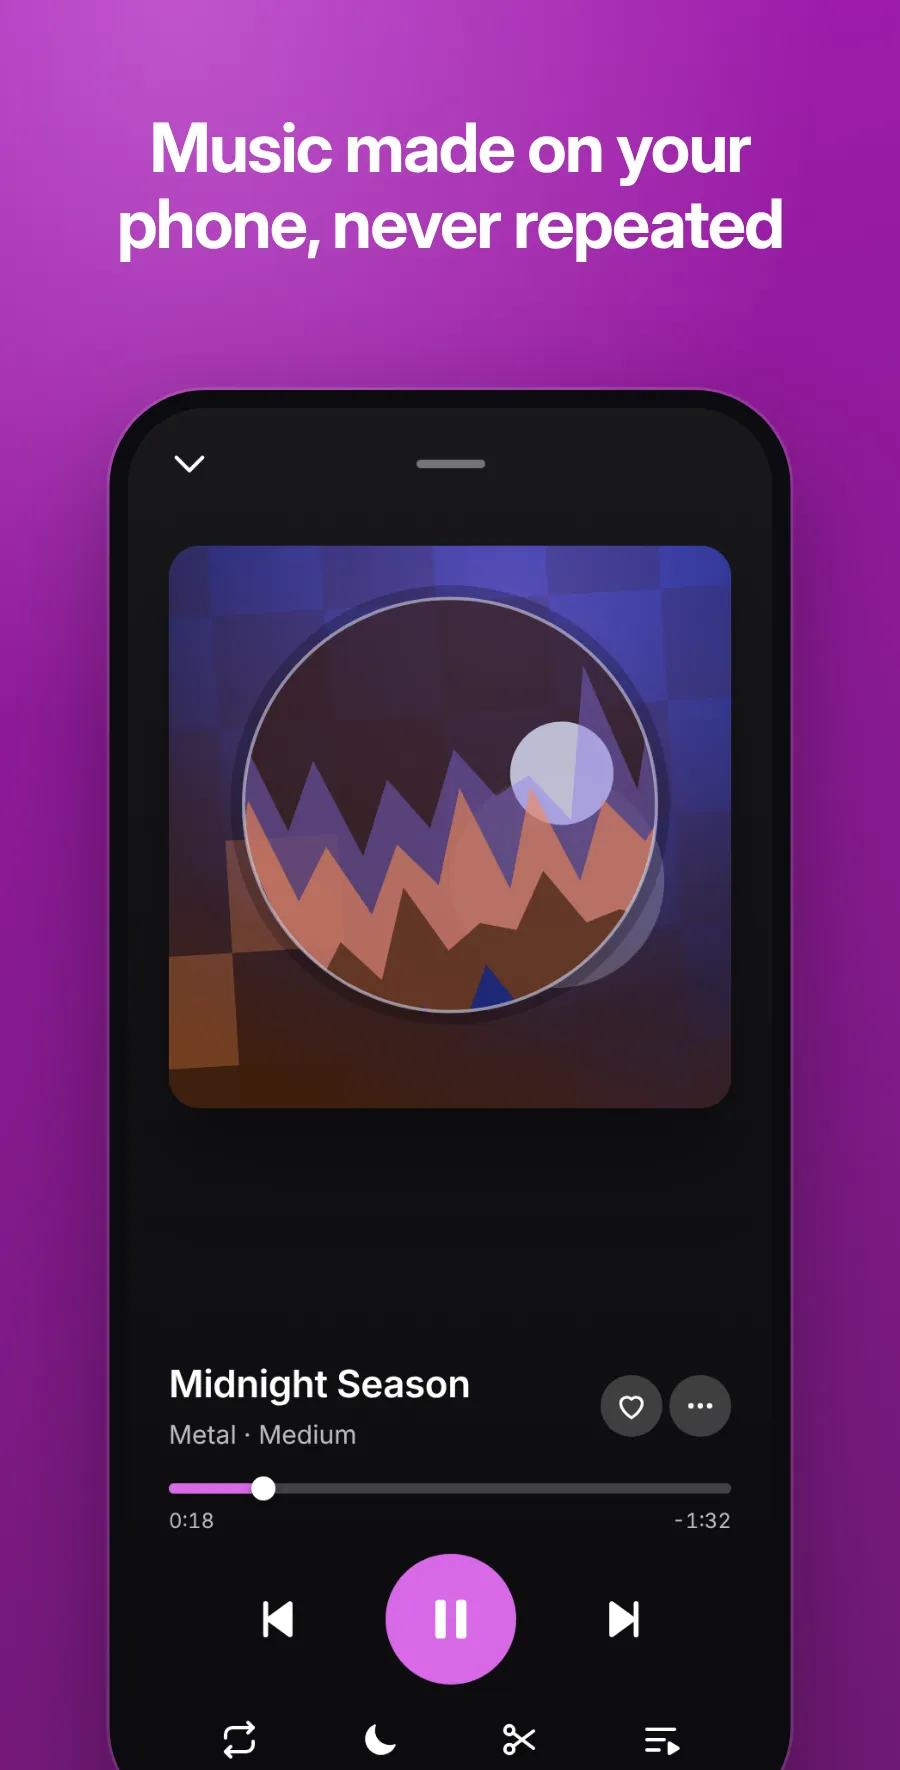
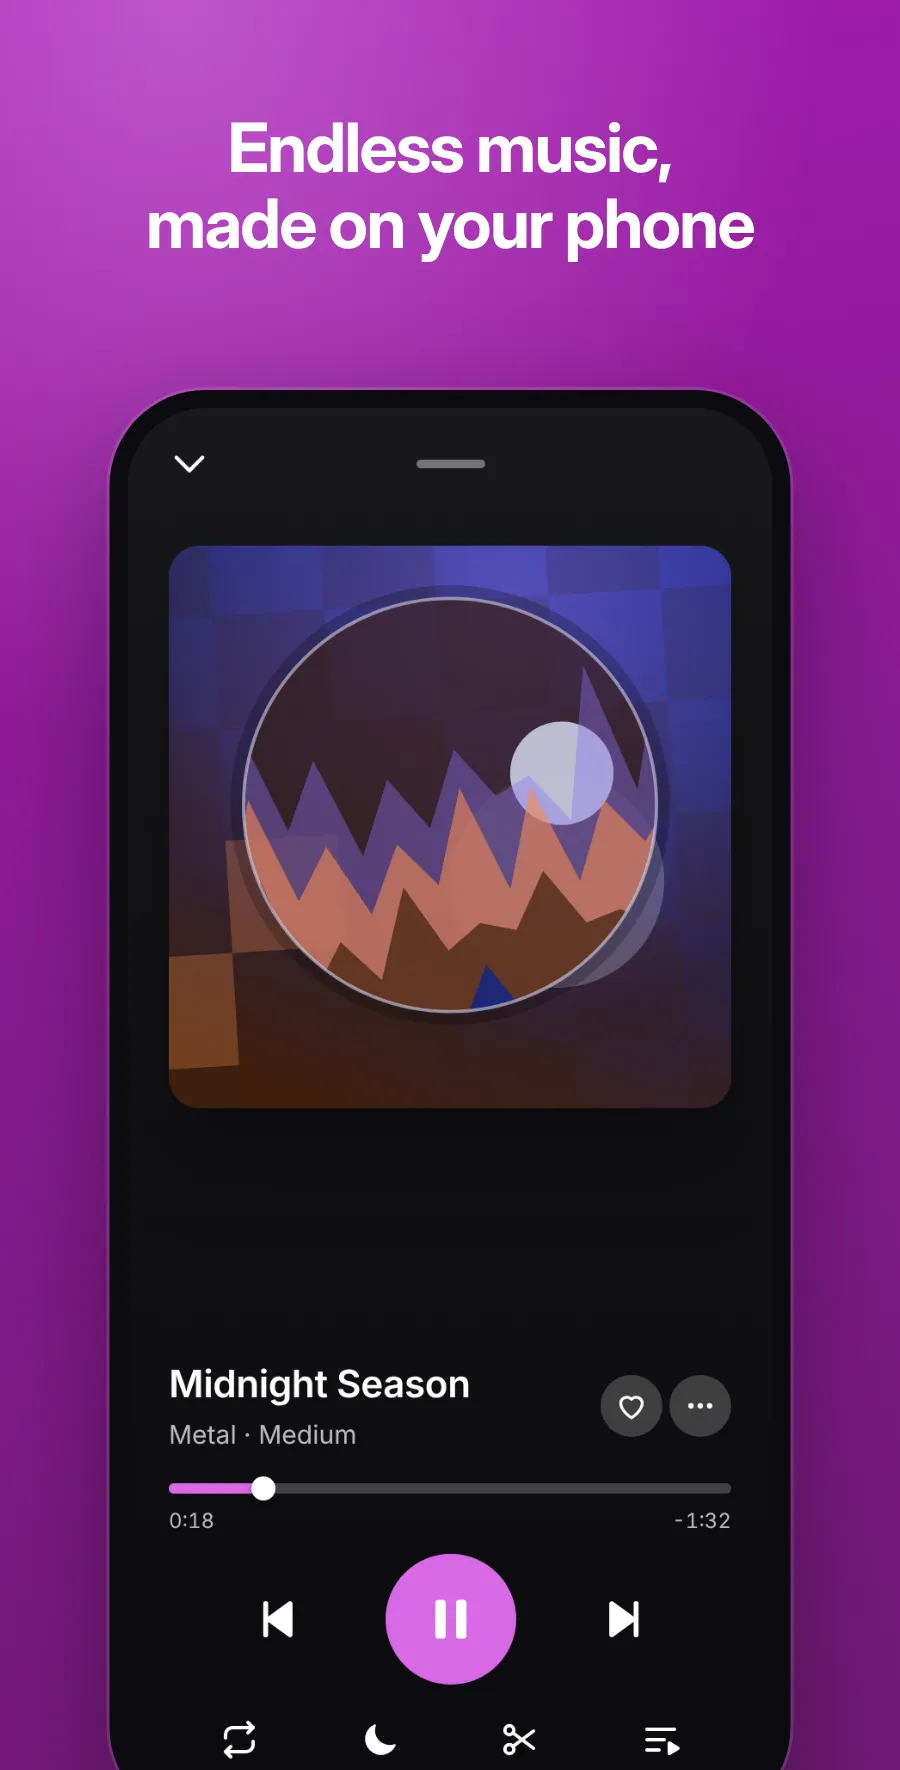
README screenshots: shorter English headlines
Claude-Session: https://claude.ai/code/session_01DckgWMZUMTVhMRS1sMRz4M

Changed region(s): [[0.1244, 0.0621, 0.8711, 0.1554]]

diff --git a/README.md b/README.md
@@ -16,7 +16,7 @@
 Music that never stops, and your own beat pieces arranged into new songs. Everything runs on the phone; no sound is uploaded. Part of **Orbit**, a family of apps for life in Taiwan that share one sign-in, the Orbit Pass. See them all at [orbit.jaypengx.com](https://orbit.jaypengx.com/pass/).
 
 <p align="center">
-  <img src="docs/screenshots/beats-1.webp" width="30%" alt="Music made on your phone, never repeated">
+  <img src="docs/screenshots/beats-1.webp" width="30%" alt="Endless music, made on your phone">
   <img src="docs/screenshots/beats-2.webp" width="30%" alt="49 styles: say what you want to hear">
   <img src="docs/screenshots/beats-3.webp" width="30%" alt="Your own sounds, made into songs">
 </p>
